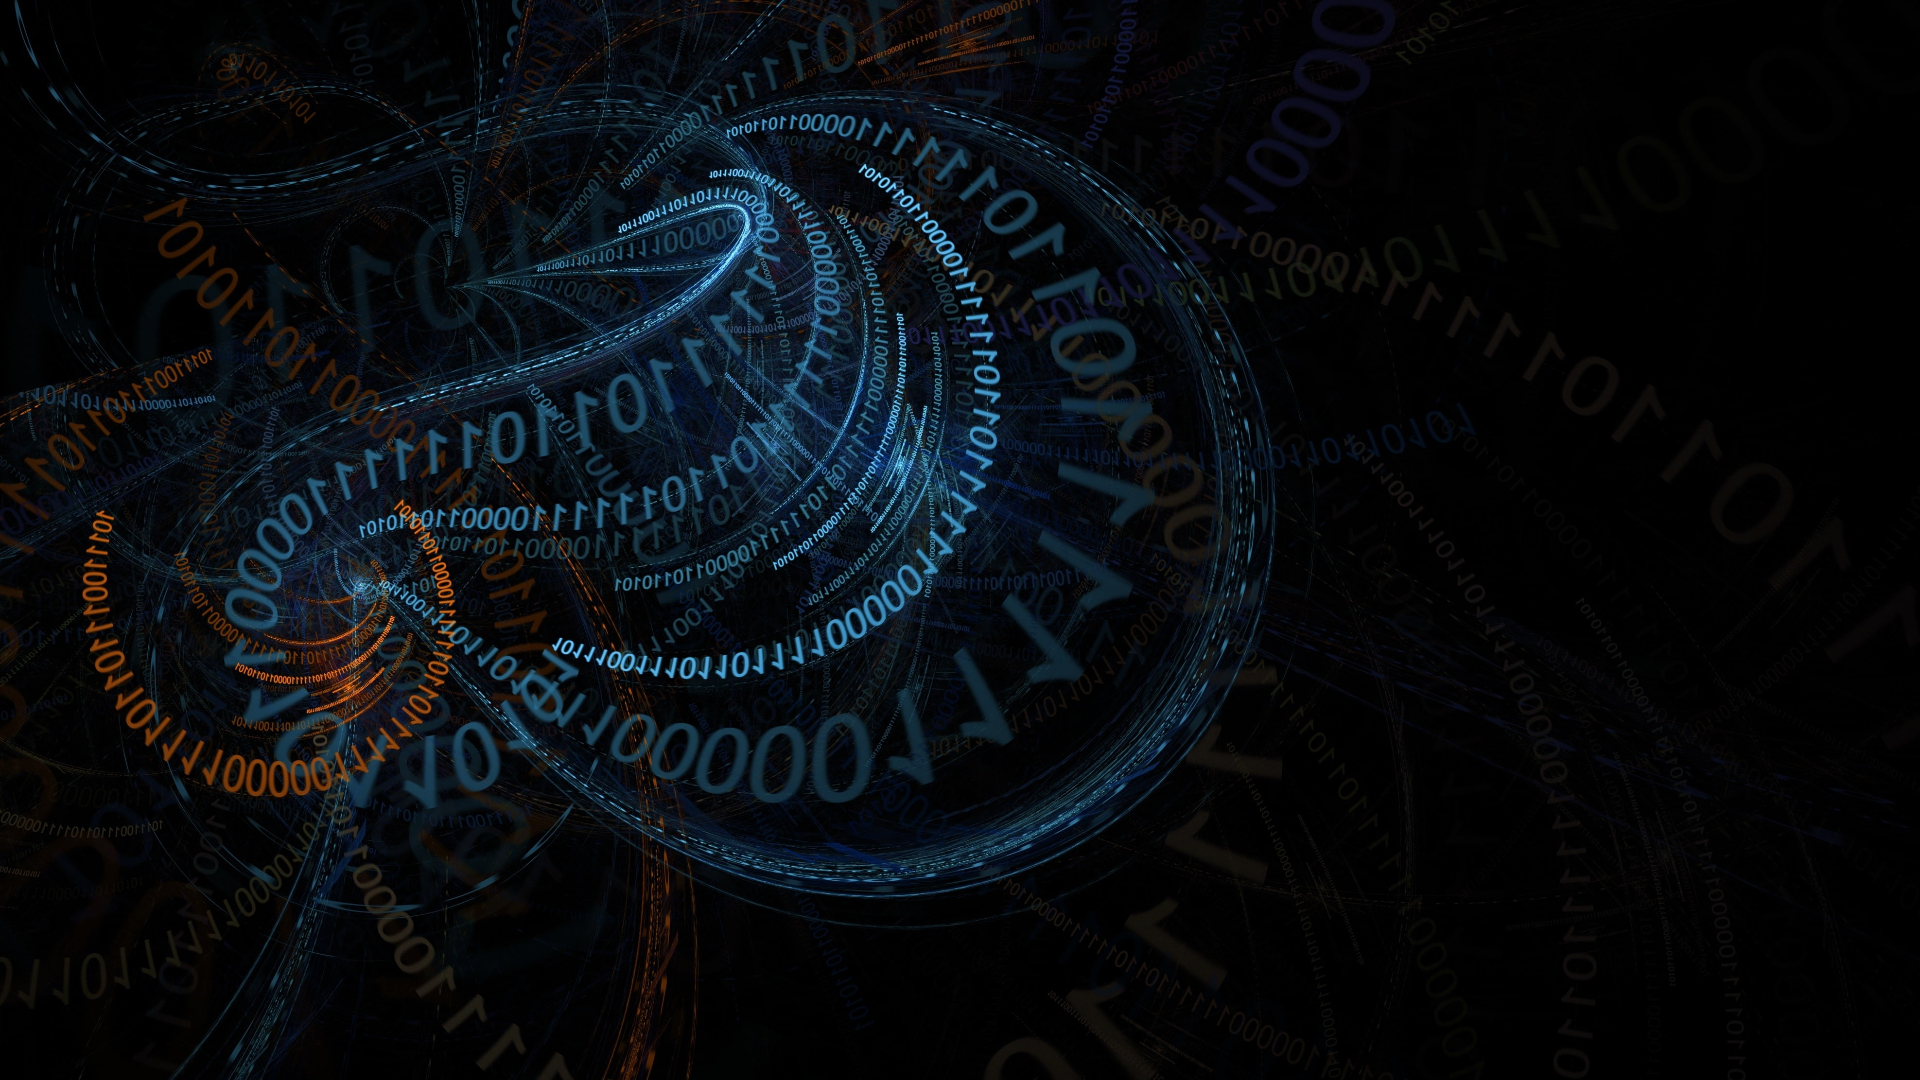
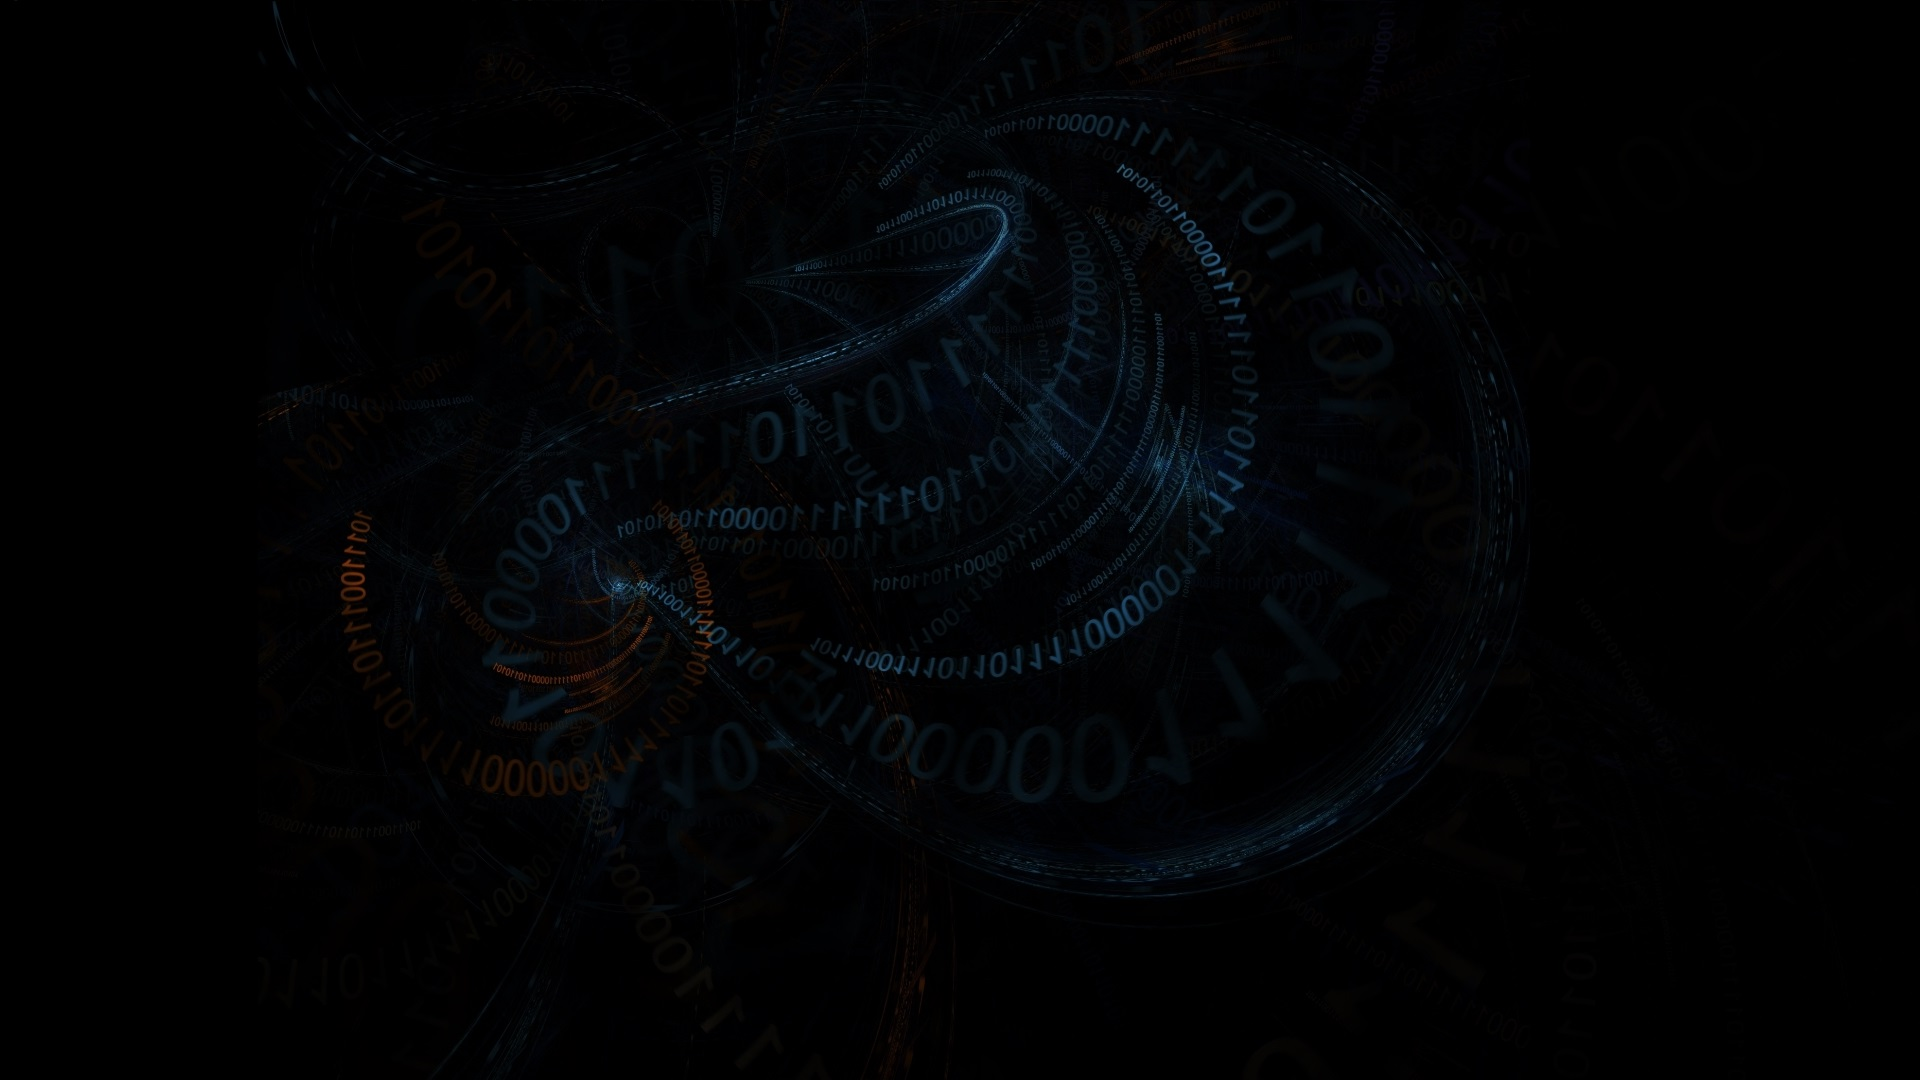
Working on header with some small animation, new colors and fonts

diff --git a/app/index.html b/app/index.html
@@ -10,7 +10,7 @@
   <header class="site-header">
     <div class="wrapper">
       <div class="site-header__name">ERIC HEBERT</div>
-      <div class="site-header__title">Coder</div>
+      <div class="site-header__title">&lt;Coder/&gt;</div>
 
       <div class="site-header__menu-content">
         <nav class="primary-nav primary-nav--pull-right">
@@ -28,7 +28,6 @@
     <h1>Project</h1>
     <p>Description</p>
     <a href="https://focused-dijkstra-df7291.netlify.app/" target="_blank">URL</a> 
-    <img src="./assets/images/home-background.jpg"></img>
   </div>
 
   <!--script src="bundled.js"></script-->

diff --git a/app/assets/styles/modules/_site-header.css b/app/assets/styles/modules/_site-header.css
@@ -3,19 +3,22 @@
     position: fixed;
     width: 100%;
     z-index: 2;
-    background-color: rgba(55,55,55, 0.55);
+    background-color: rgba(50,50,50, 0.55);
 
     &__name {
-        color: black;
+        color: $mainBlue;
         position: absolute;
         padding-left: 15px;
+        font-size: 1.10rem;
     }
 
     &__title {
         color: darkgray;
         position: absolute;
-        padding-left: 15px;
+        padding-left: 25px;
         top: 30px;
+        font-family: 'Courier New', Courier, monospace;
+        font-weight: 300;
     }
 
     &__menu-content {

diff --git a/app/assets/styles/modules/_primary-nav.css b/app/assets/styles/modules/_primary-nav.css
@@ -39,7 +39,7 @@
     }
 
     a {
-        color: #fff;
+        color: $lightBlue;
         font-weight: 300;
         text-decoration: none;
         display: block;
@@ -51,13 +51,14 @@
             font-size: 1rem;
             padding: 12px 0;
             background-color: transparent;
+            transition: color 0.5s ease-in-out;
 
             &.is-current-link {
-                color: #fabb69;
+                color: $mainOrange;
             }
 
             &:hover {
-                color: #fabb69;
+                color: $mainOrange;
             }
         }
     }

diff --git a/app/assets/styles/base/_global.css b/app/assets/styles/base/_global.css
@@ -6,6 +6,10 @@ html {
 body {
   font-family: 'Roboto', sans-serif;
   color: #333;
+  background-image: url('./assets/images/home-background.jpg');
+  background-color: black;
+  background-repeat: no-repeat; /* Do not repeat the image */
+  background-size: auto;
 }
 
 img {

diff --git a/app/assets/styles/base/_variables.css b/app/assets/styles/base/_variables.css
@@ -1,2 +1,3 @@
-$mainBlue: #2f5572;
-$mainOrange: #d59541;
+$lightBlue: rgb(152,193,224);
+$mainBlue: rgb(43,100,142);
+$mainOrange: rgb(213,106,49);
